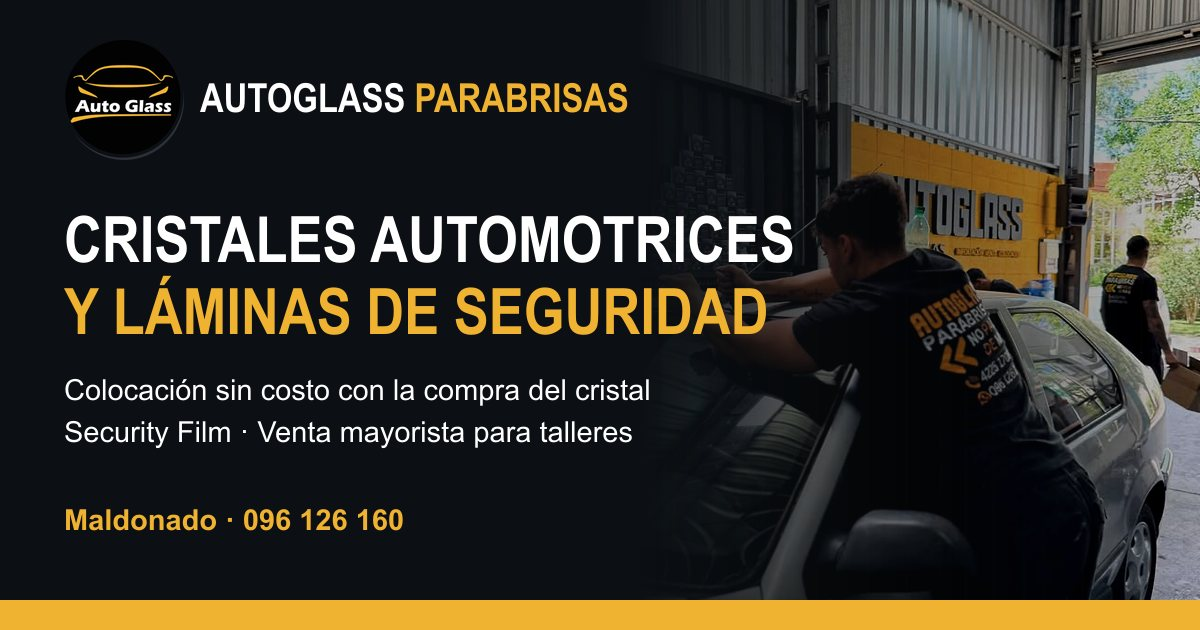
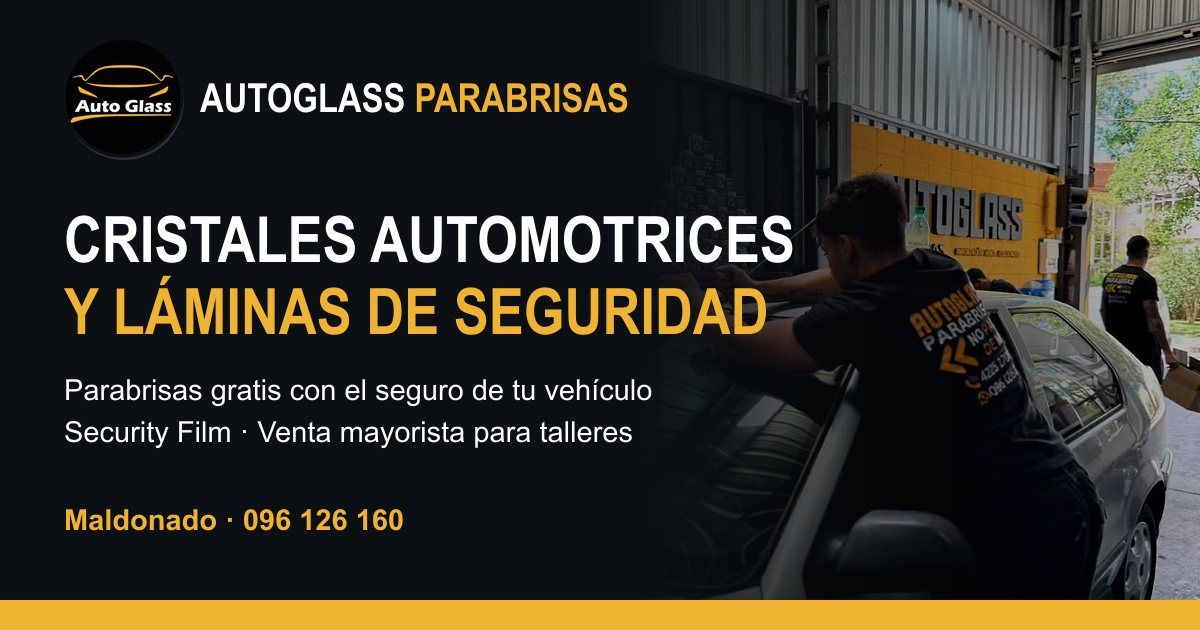
Seguros: se vuelve a incluir todo lo de hoy
Sección de seguros, sello de la portada, aseguradoras, preguntas frecuentes,
campo del formulario, línea del mensaje de WhatsApp, link del menú, tarjeta
de confianza, keywords y og-image. Se mantienen las mejoras del 14/11; el
botón flotante también se esconde junto al botón de la sección de seguros.

Changed region(s): [[0.0308, 0.6032, 0.555, 0.6635]]

diff --git a/src/components/sections/Insurance.tsx b/src/components/sections/Insurance.tsx
@@ -1,0 +1,62 @@
+import { business } from '@/data/business';
+import { Picture } from '@/components/ui/Picture';
+import { Reveal } from '@/components/ui/Reveal';
+import { IconShield, IconWhatsApp } from '@/components/ui/Icons';
+import { QuoteButton } from '@/components/quote/QuoteContext';
+
+export function Insurance() {
+  if (!business.worksWithInsurance) return null;
+  return (
+    <section id="seguros" aria-labelledby="seguros-title" className="py-16 sm:py-24">
+      <div className="container-x">
+        <Reveal className="relative overflow-hidden rounded-3xl border-2 border-brand/70 bg-gradient-to-br from-carbon-2 to-ink shadow-[0_30px_60px_-30px_rgba(0,0,0,0.9)]">
+          {/* Única cinta de precaución del sitio */}
+          <div className="caution-tape" aria-hidden />
+          <div className="grid lg:grid-cols-[1.25fr_1fr]">
+            <div className="p-6 sm:p-10 lg:p-12">
+              <div className="flex items-center gap-4">
+                <span className="flex h-16 w-16 shrink-0 items-center justify-center rounded-2xl bg-brand text-ink sm:h-20 sm:w-20">
+                  <IconShield className="h-9 w-9 sm:h-10 sm:w-10" />
+                </span>
+                <p className="eyebrow">Seguros</p>
+              </div>
+              <h2 id="seguros-title" className="h-display mt-5 text-[2.6rem] sm:text-6xl lg:text-7xl">
+                Tu parabrisas <span className="text-brand">gratis</span> con el seguro de tu vehículo
+              </h2>
+              <p className="mt-5 max-w-2xl text-lg text-snow/90 sm:text-xl">
+                Si tu vehículo tiene seguro, posiblemente tengas <strong className="text-snow">un cambio de cristal gratis al año</strong>. Nosotros nos
+                encargamos de toda la gestión con tu aseguradora.
+              </p>
+
+              <h3 className="mt-8 font-display text-lg font-bold tracking-wide text-mist uppercase">Trabajamos con</h3>
+              <ul className="mt-3 flex flex-wrap gap-2" aria-label="Aseguradoras con las que trabajamos">
+                {business.insurers.map((name) => (
+                  <li key={name} className="rounded-full border border-brand/60 bg-ink/70 px-4 py-2 font-semibold text-snow">
+                    {name}
+                  </li>
+                ))}
+              </ul>
+
+              <div className="mt-8 flex flex-col gap-3 sm:flex-row sm:items-center sm:gap-6" data-hide-fab>
+                <QuoteButton preset={{ service: 'Cambio de parabrisas', source: 'servicio' }} className="btn btn-primary text-xl" ariaLabel="Consultanos por tu seguro">
+                  <IconWhatsApp className="h-6 w-6" /> Consultanos por tu seguro
+                </QuoteButton>
+                <p className="text-sm text-mist">Sujeto a la cobertura de tu póliza.</p>
+              </div>
+            </div>
+
+            <div className="relative min-h-72 lg:min-h-full">
+              <Picture
+                name="seguro-parabrisas"
+                alt="Vehículo gris sin parabrisas frente a la pared amarilla con el cartel de Autoglass Parabrisas, listo para el cambio"
+                sizes="(min-width: 1024px) 40vw, 100vw"
+                className="absolute inset-0 h-full w-full object-cover object-[50%_40%]"
+              />
+              <div className="absolute inset-0 bg-gradient-to-t from-ink/70 to-transparent lg:bg-gradient-to-r lg:from-ink/80 lg:via-transparent" aria-hidden />
+            </div>
+          </div>
+        </Reveal>
+      </div>
+    </section>
+  );
+}

diff --git a/src/components/sections/Hero.tsx b/src/components/sections/Hero.tsx
@@ -1,6 +1,6 @@
 import { business } from '@/data/business';
 import { Picture } from '@/components/ui/Picture';
-import { IconArrowRight, IconStar, IconWhatsApp } from '@/components/ui/Icons';
+import { IconArrowRight, IconShield, IconStar, IconWhatsApp } from '@/components/ui/Icons';
 import { QuoteButton } from '@/components/quote/QuoteContext';
 
 export function Hero() {
@@ -38,6 +38,21 @@ export function Hero() {
             {business.homeServiceZones.join(', ').replace(/, ([^,]*)$/, ' y $1')}.
           </p>
 
+          {/* Sello destacado: seguro */}
+          <a
+            href="#seguros"
+            className="hero-in group mt-6 inline-flex max-w-xl items-center gap-3 rounded-2xl border-2 border-brand bg-brand/10 py-3 pr-5 pl-3 transition-colors hover:bg-brand/20"
+            style={{ animationDelay: '0.24s' }}
+          >
+            <span className="flex h-12 w-12 shrink-0 items-center justify-center rounded-xl bg-brand text-ink">
+              <IconShield className="h-7 w-7" />
+            </span>
+            <span className="font-display text-xl leading-tight font-bold tracking-wide text-snow uppercase sm:text-2xl">
+              Tu parabrisas <span className="text-brand">gratis</span> con el seguro de tu vehículo
+            </span>
+            <IconArrowRight className="h-5 w-5 shrink-0 text-brand transition-transform group-hover:translate-x-1" />
+          </a>
+
           <div className="hero-in mt-8 flex flex-col gap-3 sm:flex-row" style={{ animationDelay: '0.28s' }}>
             <QuoteButton className="btn btn-primary text-xl">
               <IconWhatsApp className="h-6 w-6" /> Cotizá por WhatsApp
@@ -54,7 +69,7 @@ export function Hero() {
                   <IconStar key={i} className="h-4 w-4" />
                 ))}
               </span>
-              <a href="#opiniones" className="relative underline-offset-4 before:absolute before:-inset-x-2 before:-inset-y-3 before:content-[''] hover:underline">
+              <a href="#opiniones" className="underline-offset-4 hover:underline">
                 {business.google.rating.toString().replace('.', ',')} en Google · {business.google.reviewCount} reseñas
               </a>
             </li>

diff --git a/src/components/sections/TrustBar.tsx b/src/components/sections/TrustBar.tsx
@@ -1,11 +1,12 @@
 import { business } from '@/data/business';
 import { Reveal } from '@/components/ui/Reveal';
-import { IconBoxes, IconCard, IconGift, IconHome, IconShip, IconTruck } from '@/components/ui/Icons';
+import { IconBoxes, IconCard, IconGift, IconHome, IconShield, IconShip, IconTruck } from '@/components/ui/Icons';
 
 const items = [
   { icon: IconShip, title: 'Importador directo', text: 'Sin intermediarios: mejor precio y disponibilidad.' },
   { icon: IconGift, title: 'Colocación sin costo', text: 'Con la compra del cristal.' },
   { icon: IconHome, title: 'A domicilio sin costo', text: business.homeServiceZones.join(' · ') },
+  { icon: IconShield, title: 'Parabrisas con tu seguro', text: 'Nos encargamos de toda la gestión con tu aseguradora.' },
   { icon: IconCard, title: 'Hasta 6 pagos', text: 'Con todas las tarjetas.' },
   { icon: IconTruck, title: 'Todo tipo de vehículo', text: 'Autos, camionetas, camiones, ómnibus y ambulancias.' },
   { icon: IconBoxes, title: 'Stock para todas las marcas', text: 'Y si no está, lo conseguimos.' },
@@ -28,7 +29,7 @@ export function TrustBar() {
               </div>
             </Reveal>
           ))}
-          <Reveal as="li" delay={0.35} className="flex items-center rounded-2xl border border-dashed min-[420px]:col-span-2 border-brand/50 p-4 sm:p-5">
+          <Reveal as="li" delay={0.35} className="flex items-center rounded-2xl border border-dashed border-brand/50 p-4 sm:p-5">
             <p className="font-display text-xl font-bold uppercase leading-tight tracking-wide">
               Llegás, lo cambiamos <span className="text-brand">y seguís camino.</span>
             </p>

diff --git a/src/lib/whatsapp.test.ts b/src/lib/whatsapp.test.ts
@@ -15,13 +15,15 @@ describe('formatDay', () => {
 });
 
 describe('buildWhatsAppMessage', () => {
-  it('arma el mensaje completo de un cambio de parabrisas', () => {
+  it('arma el mensaje completo de un cambio de parabrisas por seguro', () => {
     const msg = buildWhatsAppMessage({
       name: 'Juan Pérez',
       service: 'Cambio de parabrisas',
       brand: 'Toyota',
       model: 'Corolla',
       year: '2018',
+      insurance: 'si',
+      insurer: 'BSE',
       preferredDay: '2026-11-19',
       timeSlot: 'tarde',
       location: 'taller',
@@ -31,6 +33,7 @@ describe('buildWhatsAppMessage', () => {
       [
         'Hola, soy *Juan Pérez*, quiero consultar por *Cambio de parabrisas* 👋',
         'Vehículo: *Toyota Corolla 2018*',
+        'Es por seguro: *Sí* (BSE)',
         'Lugar: *En el taller*',
         'Día preferido: *Jueves 19 de noviembre*, por la *tarde*',
         'Comentario: Tiene una rajadura del lado del conductor.',
@@ -45,15 +48,19 @@ describe('buildWhatsAppMessage', () => {
     expect(msg).not.toMatch(/seguro|Día|Lugar|Comentario/);
   });
 
-  it('a domicilio con zona', () => {
+  it('sin seguro y a domicilio con zona', () => {
     const msg = buildWhatsAppMessage({
       name: 'Luis',
       service: 'Vidrio lateral',
       brand: 'VW',
       model: 'Gol',
+      insurance: 'no',
+      insurer: 'no debería salir',
       location: 'domicilio',
       zone: 'San Carlos',
     });
+    expect(msg).toContain('Es por seguro: *No*\n');
+    expect(msg).not.toContain('no debería salir');
     expect(msg).toContain('Lugar: *A domicilio*, zona *San Carlos*');
   });
 

diff --git a/src/app/layout.tsx b/src/app/layout.tsx
@@ -28,7 +28,7 @@ function go(){if(moved)return;var el=document.getElementById(decodeURIComponent(
 addEventListener('load',function(){var f=document.fonts&&document.fonts.ready;Promise.resolve(f).then(function(){requestAnimationFrame(go);setTimeout(go,700)})})})()`;
 
 const title = `Autoglass Parabrisas · Cristales automotrices y láminas de seguridad en ${business.city}`;
-const description = `Cristales automotrices para todo tipo de vehículo en ${business.city}: parabrisas, lunetas y laterales. Láminas de seguridad Security Film, venta mayorista para talleres. Colocación sin costo con la compra del cristal.`;
+const description = `Cristales automotrices para todo tipo de vehículo en ${business.city}: parabrisas, lunetas y laterales. Láminas de seguridad Security Film, venta mayorista para talleres y tu parabrisas gratis con el seguro de tu vehículo. Colocación sin costo con la compra del cristal.`;
 const ogImage = { url: `${SITE_URL}/og-image.jpg`, width: 1200, height: 630, alt: 'Autoglass Parabrisas: cristales automotrices y láminas de seguridad en Maldonado' };
 
 export const metadata: Metadata = {
@@ -44,6 +44,8 @@ export const metadata: Metadata = {
     'Security Film',
     'láminas de seguridad para vehículos',
     'venta mayorista de cristales',
+    'parabrisas con seguro',
+    'parabrisas gratis con el seguro',
     'luneta',
     'vidrios laterales',
     'cristales para vehículos',

diff --git a/src/components/quote/QuoteForm.tsx b/src/components/quote/QuoteForm.tsx
@@ -98,6 +98,7 @@ export function QuoteForm({ preset, nonce, autoFocus }: Props) {
   }, [watch]);
 
   const service = watch('service');
+  const insurance = watch('insurance');
   const location = watch('location');
   const glassScope = watch('glassScope');
   const timeSlot = watch('timeSlot');
@@ -270,6 +271,27 @@ export function QuoteForm({ preset, nonce, autoFocus }: Props) {
             </div>
           </div>
         </fieldset>
+
+        {business.worksWithInsurance && (
+          <div className="grid gap-3">
+            <ChipGroup
+              label="¿Es por seguro?"
+              name="insurance"
+              options={[
+                { value: 'si', label: 'Sí' },
+                { value: 'no', label: 'No' },
+              ]}
+              value={insurance}
+              register={register('insurance')}
+              uid={id('ins')}
+            />
+            {insurance === 'si' && (
+              <Field label="Aseguradora (opcional)" id={id('insurer')} error={errors.insurer?.message}>
+                <input id={id('insurer')} className="field" placeholder="Ej. Mapfre, SURA, HDI…" {...register('insurer')} />
+              </Field>
+            )}
+          </div>
+        )}
 
         {business.homeService && (
           <div className="grid gap-3">

diff --git a/src/lib/whatsapp.ts b/src/lib/whatsapp.ts
@@ -12,6 +12,8 @@ export type QuoteData = {
   brand?: string;
   model?: string;
   year?: string;
+  insurance?: 'si' | 'no' | '';
+  insurer?: string;
   preferredDay?: string; // YYYY-MM-DD
   timeSlot?: 'mañana' | 'tarde' | '';
   location?: 'taller' | 'domicilio' | '';
@@ -65,6 +67,11 @@ export function buildWhatsAppMessage(d: QuoteData): string {
 
   const vehicle = vehicleText(d);
   if (vehicle) lines.push(`Vehículo: ${bold(vehicle)}`);
+
+  if (business.worksWithInsurance && (d.insurance === 'si' || d.insurance === 'no')) {
+    const insurer = d.insurance === 'si' ? safe(d.insurer) : '';
+    lines.push(`Es por seguro: ${bold(d.insurance === 'si' ? 'Sí' : 'No')}${insurer ? ` (${insurer})` : ''}`);
+  }
 
   if (business.homeService && d.location) {
     if (d.location === 'domicilio') {

diff --git a/src/data/faq.ts b/src/data/faq.ts
@@ -14,6 +14,14 @@ export const faq: { q: string; a: string; pending?: boolean }[] = [
     pending: true,
   },
   {
+    q: '¿El seguro cubre el cambio?',
+    a: 'En la mayoría de los casos sí. Trabajamos con Mapfre, Porto Seguro, SURA, Sancor, Surco, Berkley, San Cristóbal y HDI.',
+  },
+  {
+    q: '¿Trabajan con seguros?',
+    a: 'Sí. Si tu vehículo tiene seguro, posiblemente tengas un cambio de cristal gratis al año. Nosotros nos encargamos de toda la gestión con tu aseguradora. Sujeto a la cobertura de tu póliza.',
+  },
+  {
     q: '¿Qué es la lámina de seguridad?',
     a: 'Es una lámina que, además de darle tonalidad al vidrio, lo mantiene unido ante un impacto y dificulta el ingreso al vehículo. Tono 20 %.',
   },

diff --git a/src/lib/quoteSchema.ts b/src/lib/quoteSchema.ts
@@ -22,6 +22,8 @@ export const quoteSchema = z
       .refine((v) => !v || (/^\d{4}$/.test(v) && Number(v) >= 1950 && Number(v) <= currentYear + 1), {
         message: `El año tiene que ser de 4 cifras, entre 1950 y ${currentYear + 1}.`,
       }),
+    insurance: z.enum(['si', 'no', '']).optional(),
+    insurer: z.string().trim().max(40, 'Muy largo.').optional(),
     preferredDay: z.string().optional(),
     timeSlot: z.enum(['mañana', 'tarde', '']).optional(),
     location: z.enum(['taller', 'domicilio', '']).optional(),
@@ -50,6 +52,8 @@ export const emptyQuote: QuoteFormValues = {
   brand: '',
   model: '',
   year: '',
+  insurance: '',
+  insurer: '',
   preferredDay: '',
   timeSlot: '',
   location: '',

diff --git a/src/app/page.tsx b/src/app/page.tsx
@@ -4,6 +4,7 @@ import { Services } from '@/components/sections/Services';
 import { SecurityFilm } from '@/components/sections/SecurityFilm';
 import { SimulatorSection } from '@/components/simulator/SimulatorSection';
 import { HowWeWork } from '@/components/sections/HowWeWork';
+import { Insurance } from '@/components/sections/Insurance';
 import { Gallery } from '@/components/sections/Gallery';
 import { WhyImport } from '@/components/sections/WhyImport';
 import { Faq } from '@/components/sections/Faq';
@@ -19,6 +20,7 @@ export default function Home() {
       <SecurityFilm />
       <SimulatorSection />
       <HowWeWork />
+      <Insurance />
       <Gallery />
       <WhyImport />
       <Faq />

diff --git a/src/data/business.ts b/src/data/business.ts
@@ -66,6 +66,10 @@ export const business = {
   ] as { day: number; label: string; open: string | null; close: string | null }[],
   hoursSummary: ['Lunes a viernes: 8:00 a 18:30', 'Sábados: 8:00 a 13:00', 'Domingos: cerrado'],
 
+  /** ¿Trabajan con seguros? Si es false, se ocultan el bloque y el campo del formulario. */
+  worksWithInsurance: true,
+  /** Aseguradoras con las que trabajan (se muestran como texto, sin logos). */
+  insurers: ['Mapfre', 'Porto Seguro', 'SURA', 'Sancor Seguros', 'Surco', 'Berkley', 'San Cristóbal', 'HDI'],
   /** ¿Van a domicilio? Si es false, se oculta la opción en el formulario. */
   homeService: true,
   /** Zonas donde el domicilio es SIN COSTO. */

diff --git a/src/data/gallery.ts b/src/data/gallery.ts
@@ -1,7 +1,7 @@
 /**
  * Galería de trabajos. Para sumar fotos: procesalas con `npm run images`
  * (agregándolas en scripts/images.config.mjs) y agregalas acá.
- * No repetir fotos que ya se usan en el hero, servicios o contacto.
+ * No repetir fotos que ya se usan en el hero, servicios, seguros o contacto.
  * Con 13 fotos la grilla de escritorio (4 columnas, la primera ocupa 2×2) queda completa.
  */
 export const GALLERY_CATEGORIES = [
